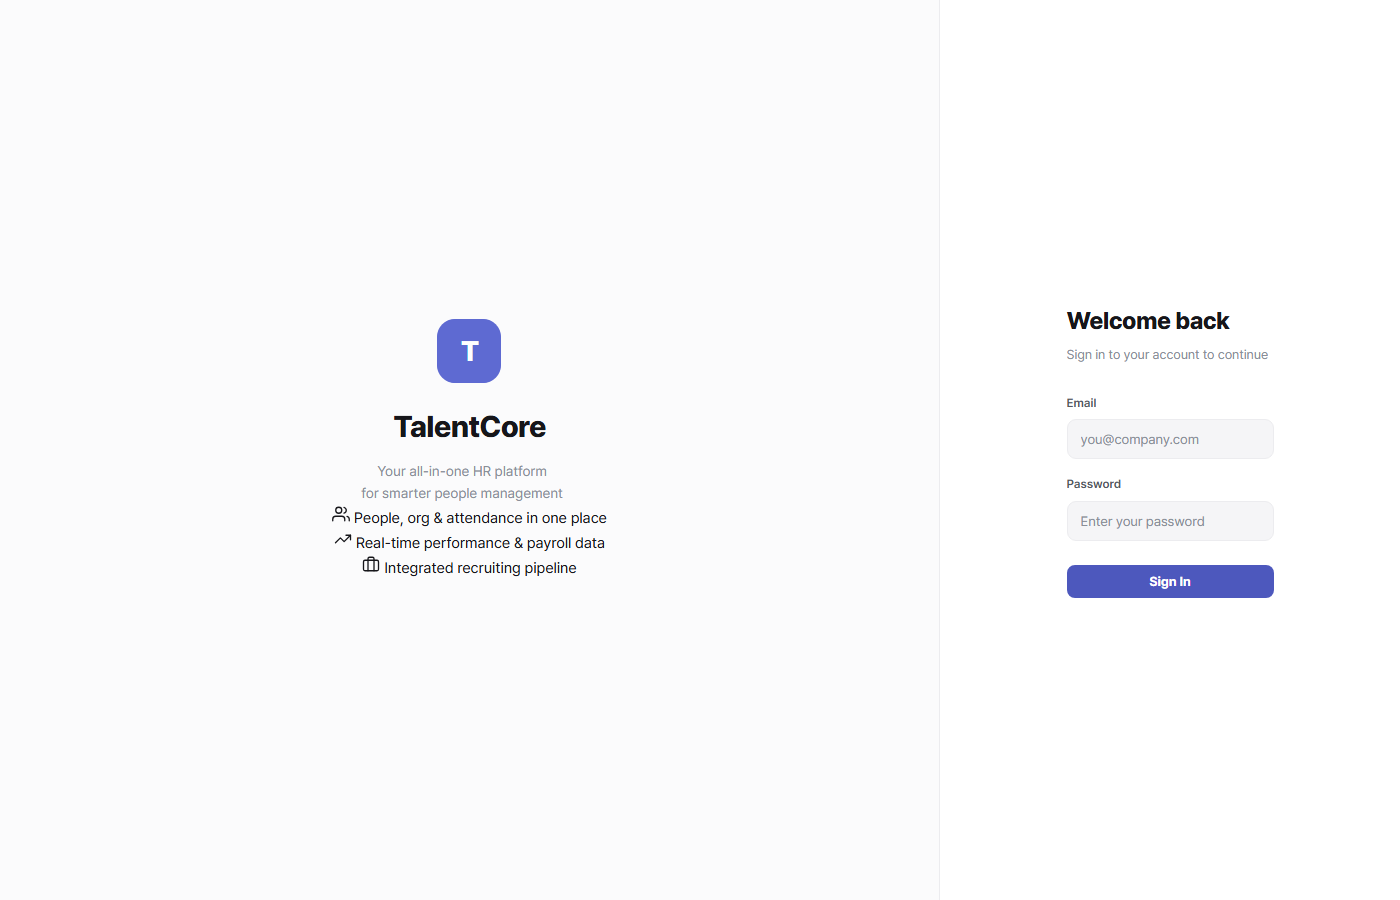
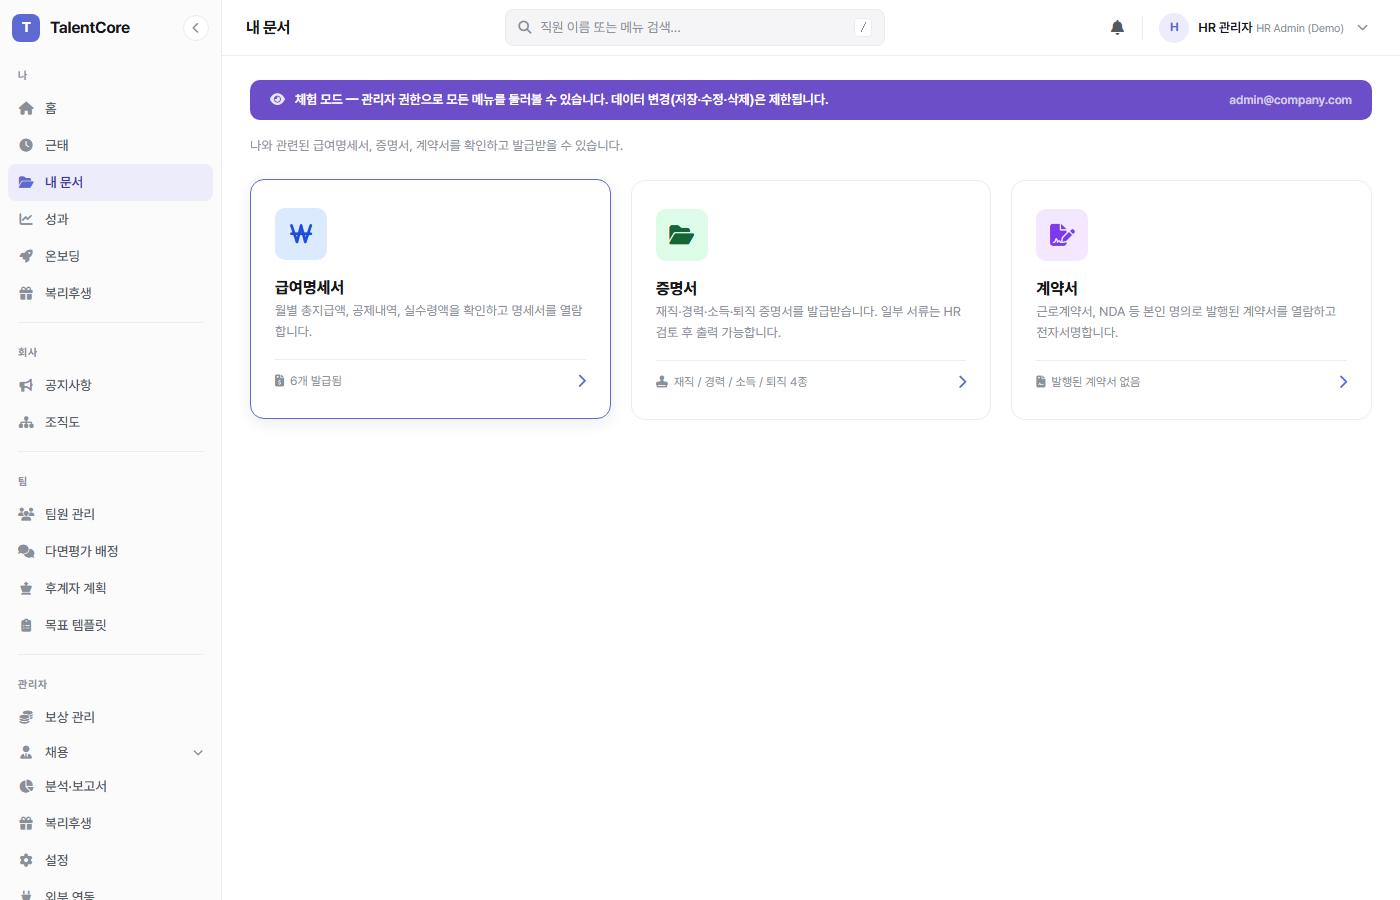
v0.91.0 — 랜딩 페이지 스크롤 연동 제품 투어 섹션 추가
스크롤에 따라 좌측 모듈 설명과 우측 스티키 스크린샷이 동기화되는
Product Tour 섹션을 랜딩 페이지에 추가 (근태/급여/성과/채용/조직도/분석 6종).
실제 앱 스크린샷을 static/img/product/에 반영.

diff --git a/templates/landing/index.html b/templates/landing/index.html
@@ -20,7 +20,19 @@
       .tc-landing .grid-4 { grid-template-columns: repeat(2, 1fr) !important; }
       .tc-landing .ai-grid, .tc-landing .metrics-grid { grid-template-columns: 1fr !important; }
       .tc-landing h1.hero { font-size: 40px !important; }
+      .tc-landing .tour-stage { grid-template-columns: 1fr !important; }
+      .tc-landing .tour-sticky { position: relative !important; height: 260px !important; margin-top: 24px; }
     }
+    .tc-landing .tour-stage { display: grid; grid-template-columns: 1fr 1fr; gap: 52px; align-items: start; }
+    .tc-landing .tour-step { padding: 52px 0 52px 28px; border-left: 2px solid #edeef4; opacity: .35; transition: opacity .3s; }
+    .tc-landing .tour-step.active { opacity: 1; border-left: 2px solid #4f46e5; }
+    .tc-landing .tour-step .num { font-size: 12px; font-weight: 800; color: #4f46e5; letter-spacing: .06em; }
+    .tc-landing .tour-step h3 { font-size: 24px; font-weight: 800; margin: 8px 0 10px; letter-spacing: -0.02em; }
+    .tc-landing .tour-step p { font-size: 15px; color: #565b6e; line-height: 1.7; margin: 0 0 12px; max-width: 400px; }
+    .tc-landing .tour-step ul { margin: 0; padding-left: 18px; color: #565b6e; font-size: 14px; line-height: 1.85; }
+    .tc-landing .tour-sticky { position: sticky; top: 96px; height: 500px; border-radius: 20px; overflow: hidden; background: linear-gradient(160deg,#f2f1fb,#fbfbff); border: 1px solid #edeef4; box-shadow: 0 24px 60px rgba(20,16,60,.10); }
+    .tc-landing .tour-sticky img { position: absolute; inset: 0; width: 100%; height: 100%; object-fit: cover; object-position: top; opacity: 0; transition: opacity .35s; display: block; }
+    .tc-landing .tour-sticky img.on { opacity: 1; }
   </style>
 </head>
 <body class="tc-landing">
@@ -34,6 +46,7 @@
       </div>
       <nav style="display: flex; align-items: center; gap: 30px;">
         <a href="#features" style="font-size: 14.5px; font-weight: 600; color: #4b5060;">기능</a>
+        <a href="#tour" style="font-size: 14.5px; font-weight: 600; color: #4b5060;">제품 둘러보기</a>
         <a href="#ai" style="font-size: 14.5px; font-weight: 600; color: #4b5060;">AI 연동</a>
         <a href="#metrics" style="font-size: 14.5px; font-weight: 600; color: #4b5060;">현황</a>
         <div style="display: flex; align-items: center; gap: 10px; margin-left: 6px;">
@@ -131,6 +144,20 @@
     </div>
   </section>
 
+  <!-- PRODUCT TOUR -->
+  <section id="tour" style="padding: 20px 0 100px;">
+    <div class="wrap">
+      <div style="text-align: center; margin-bottom: 40px;">
+        <span style="font-size: 14px; font-weight: 800; color: #4f46e5; letter-spacing: 0.02em;">PRODUCT TOUR</span>
+        <h2 style="font-size: 38px; font-weight: 800; letter-spacing: -0.03em; margin: 12px 0 0;">스크롤하며 화면으로 직접 확인하세요</h2>
+      </div>
+      <div class="tour-stage">
+        <div id="tourSteps"></div>
+        <div class="tour-sticky" id="tourSticky"></div>
+      </div>
+    </div>
+  </section>
+
   <!-- AI / MCP -->
   <section id="ai" style="padding: 0 0 96px;">
     <div class="wrap">
@@ -199,6 +226,46 @@
       <span style="font-size: 13px; color: #9096a6;">© 2026 TalentCore. All rights reserved.</span>
     </div>
   </footer>
+
+  <script>
+    const TOUR_MODULES = [
+      { t: '근태관리', d: '출퇴근부터 연차, 초과근무까지 하나의 화면에서.', img: "{{ url_for('static', filename='img/product/attendance.png') }}", items: ['체크인/체크아웃 원클릭 기록', '법정 근로시간 자동 감시(52시간)', '연차 신청부터 승인까지 한 화면'] },
+      { t: '급여·보상', d: '복잡한 급여 계산과 보상 체계를 자동화.', img: "{{ url_for('static', filename='img/product/compensation.png') }}", items: ['4대보험 자동 계산 급여명세서', '직급×직군 연봉 밴드 관리', '성과 등급 연동 인상률 자동 제안'] },
+      { t: '성과관리', d: '목표 설정부터 캘리브레이션까지 전 과정 지원.', img: "{{ url_for('static', filename='img/product/performance.png') }}", items: ['SMART 목표 + AI 어시스턴트', 'Start/Stop/Continue 다면평가', '9박스 캘리브레이션으로 등급 확정'] },
+      { t: '채용', d: '파이프라인 관리부터 오퍼 발송까지 한 번에.', img: "{{ url_for('static', filename='img/product/recruitment.png') }}", items: ['드래그앤드롭 채용 파이프라인', '면접 라운드별 피드백 수집', '오퍼 발송부터 입사까지 자동 연동'] },
+      { t: '조직도', d: '조직 구조를 인터랙티브하게 탐색.', img: "{{ url_for('static', filename='img/product/org.png') }}", items: ['클릭 한 번으로 팀 구조 탐색', '리포팅 라인 실시간 반영', '부서·직급 체계 한눈에 보기'] },
+      { t: '분석·보고서', d: '데이터 기반 HR 의사결정을 지원.', img: "{{ url_for('static', filename='img/product/analytics.png') }}", items: ['헤드카운트·이직률 추이', 'Pay Equity·Compa-Ratio 분석', '엑셀 내보내기 및 커스텀 리포트'] },
+    ];
+
+    const tourSteps = document.getElementById('tourSteps');
+    const tourSticky = document.getElementById('tourSticky');
+
+    TOUR_MODULES.forEach((m, i) => {
+      const step = document.createElement('div');
+      step.className = 'tour-step' + (i === 0 ? ' active' : '');
+      step.dataset.i = i;
+      step.innerHTML = `<div class="num">MODULE ${String(i + 1).padStart(2, '0')}</div><h3>${m.t}</h3><p>${m.d}</p><ul>${m.items.map(x => `<li>${x}</li>`).join('')}</ul>`;
+      tourSteps.appendChild(step);
+
+      const img = document.createElement('img');
+      img.src = m.img;
+      img.alt = m.t;
+      if (i === 0) img.classList.add('on');
+      tourSticky.appendChild(img);
+    });
+
+    const tourObserver = new IntersectionObserver((entries) => {
+      entries.forEach(e => {
+        if (e.isIntersecting) {
+          const i = e.target.dataset.i;
+          [...tourSteps.children].forEach(s => s.classList.remove('active'));
+          e.target.classList.add('active');
+          [...tourSticky.children].forEach((img, idx) => img.classList.toggle('on', String(idx) === i));
+        }
+      });
+    }, { threshold: 0.6 });
+    [...tourSteps.children].forEach(s => tourObserver.observe(s));
+  </script>
 
 </body>
 </html>